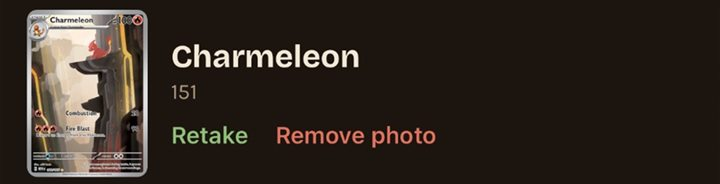
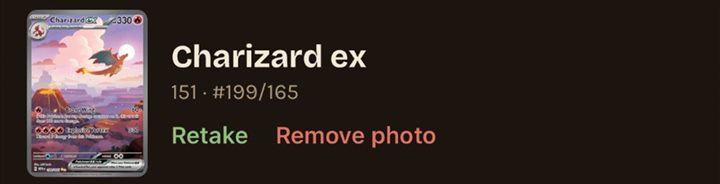
Charizard ex on the card screen and thumbnails
Claude-Session: https://claude.ai/code/session_01SCz9gYtFys2z2NQP1zbMZL

Changed region(s): [[0.0306, 0.0543, 0.2139, 0.9783], [0.3361, 0.2446, 0.5194, 0.3804], [0.275, 0.462, 0.4278, 0.5435]]

diff --git a/index.html b/index.html
@@ -297,7 +297,7 @@
       <h2>Price check before you sell.</h2>
       <p>Market price by condition, your asking price against it, and a one-tap link to what it actually sold for on eBay.</p>
     </div>
-    <div class="phone"><img src="/img/v2/screen-card.jpg" alt="Card details for Charmeleon from 151 with paid and asking prices, a market price of $51.02 and a link to eBay sold listings" loading="lazy" width="600" height="1300"></div>
+    <div class="phone"><img src="/img/v2/screen-card.jpg" alt="Card details for Charizard ex from 151 with paid and asking prices, a market price of $279.99 and a link to eBay sold listings" loading="lazy" width="600" height="1300"></div>
   </section>
 
   <section class="panel step" aria-label="Working without signal">
